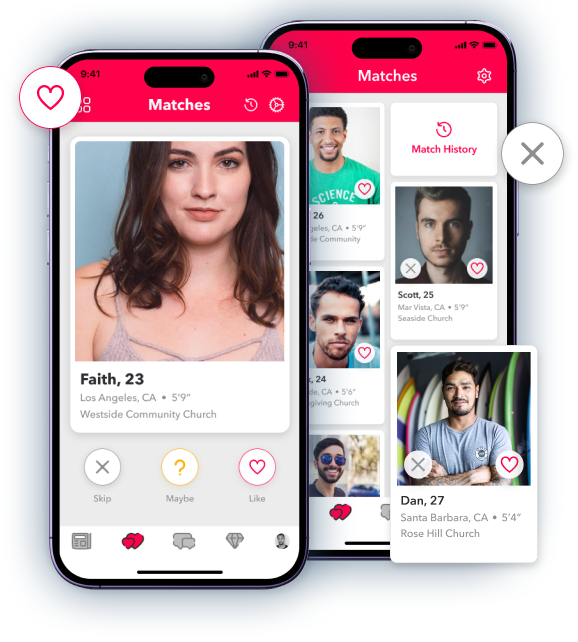
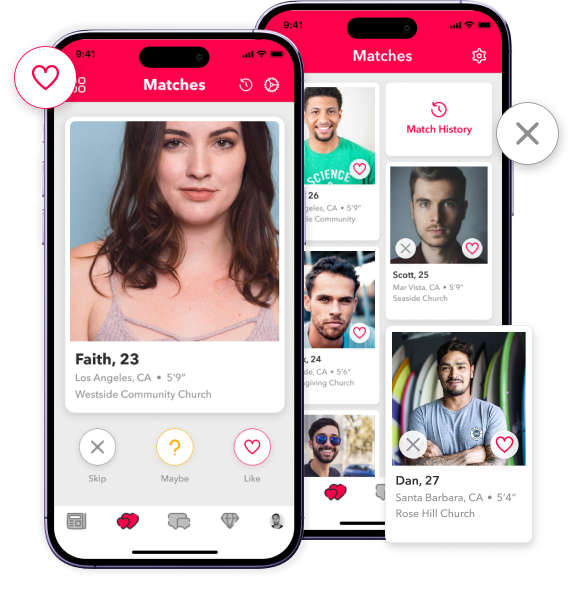
added an smooth animation switch between hero images

diff --git a/components/About.tsx b/components/About.tsx
@@ -1,25 +1,12 @@
 import Image from "next/image";
 import Link from "next/link";
-import { useState, useEffect } from "react";
+import { motion } from "framer-motion";
+import { useState, useEffect, useMemo } from "react";
 
 import styles from "../styles/About.module.css";
 
 
 const About = () => {
-  const [image, setImage] = useState("/images/hero-1.png");
-
-  useEffect(() => {
-    const interval =   setInterval(() => {
-    if (image === "/images/hero-1.png") {
-      setImage("/images/hero-2.png");
-    } else {
-      setImage("/images/hero-1.png");
-    }
-  }, 5000)
-
-    return () => clearInterval(interval);
-  }, [image])
-
   return <section className={styles.container}>
     <div className={styles.about__summary}>
       <h2 className={styles.summary__header}>Connect, Date, and Socialize.</h2>
@@ -43,12 +30,22 @@ const About = () => {
         </Link>
       </span>
     </div>
-    <Image
-      src={image}
-      alt=""
-      width={543}
-      height={613}
-    />
+    <figure className={styles.hero_image_container}>
+      <Image
+        className={`${styles.hero_image} ${styles["--1"]}`}
+        src="/images/hero-1.png" 
+        alt=""
+        width={515.71}
+        height={569.34}
+      />
+      <Image
+        className={`${styles.hero_image} ${styles["--2"]}`}
+        src="/images/hero-2.png" 
+        alt=""
+        width={515.71}
+        height={569.34}
+      />
+    </figure>
     <Image
       src="/images/Feature-Photo-1.png"
       alt=""

diff --git a/styles/About.module.css b/styles/About.module.css
@@ -44,10 +44,37 @@
 }
 
 
+/* Hero Image */
+
+@keyframes fade {
+  0% {opacity: 0;}
+  20%, 50% {opacity: 1;}
+  50% {opacity: 1;}
+  70%, 100% {opacity: 0;}
+}
+
+.hero_image_container {
+  position: relative;
+  justify-self: flex-start;
+}
+
+.hero_image {
+  position: absolute;
+  top: 0;
+  left: 0;
+}
+
+.hero_image.--1 {
+  z-index: 2;
+  animation: fade 11s infinite;
+}
+
+
 /* Feature */
 
 .feature_container {
   padding: 8rem;
+  z-index: 2;
 }
 
 .feature__header {

diff --git a/styles/Header.module.css b/styles/Header.module.css
@@ -9,6 +9,7 @@
   justify-content: space-between;
   padding: 2rem 8rem;
   background-color: white;
+  z-index: 5;
 }
 
 .turn-white {
@@ -16,7 +17,7 @@
 }
 
 .logo__img, .logo__name, .nav__purematch_btn {
-  z-index: 2;
+  z-index: 5;
 }
 
 .logo__name {
